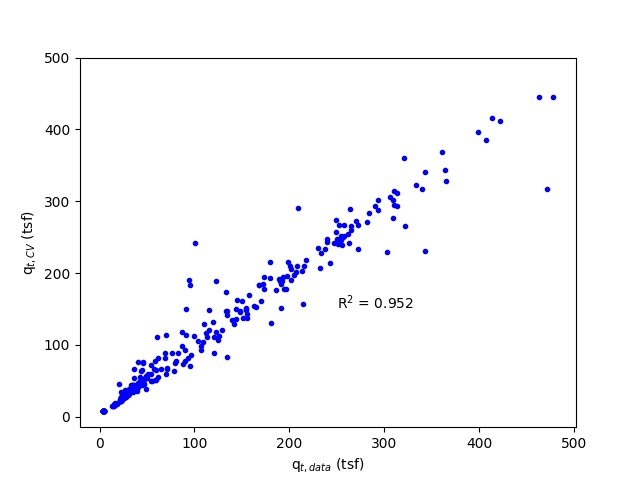
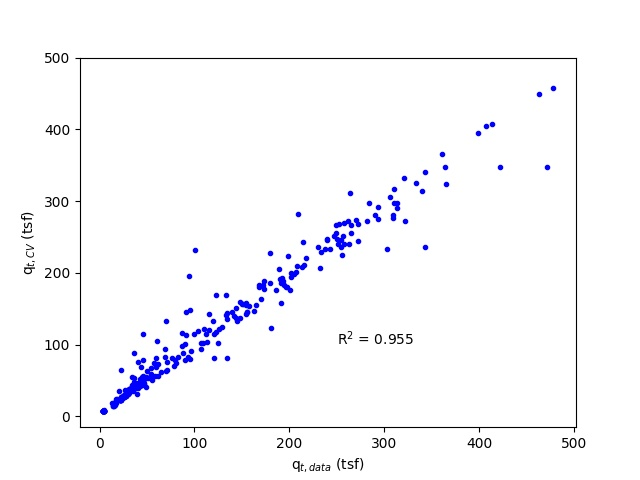
Nov 2023

diff --git a/_projects/1_project.md b/_projects/1_project.md
@@ -16,23 +16,29 @@ My motivation was simple: to make my life processing data, especially historical
 
 Extracting the data involves a number of imaging techniques, including thresholding, color filtering, and noise reduction, to trace the data line. 
 Once the desired data line is traced, it is then scaled to the input scales. Figure 1 below presents an example CPT tip stress plot. 
-The left figure is the original figure as included in reports, and the right is overlaid with the extracted features.
+The left figure is the original figure as included in reports with OTSU threshold applied, 
+and the center and right figures present extracted features with different processing methods, overlying the original plot. It becomes evident that various processing methods return distinct features, 
+which highly dictates the extraction accuracy. For example, data coverage in the right figure (method 2) is greater than the center figure (method 1). 
+However, it does a worse job in capturing abrupt features (i.e., spike in tip stress). 
 
 
 <div class="row justify-content-sm-center">
-    <div class="col-sm-4 mt-3 mt-md-0">
-        {% include figure.html path="assets/img/project/qt_ori.jpg" class="img-fluid rounded z-depth-1" %}
+    <div class="col-sm-3 mt-3 mt-md-0">
+        {% include figure.html path="assets/img/project/qt_thresh.jpg" class="img-fluid rounded z-depth-1" %}
     </div>
-	<div class="col-sm-4 mt-3 mt-md-0">
-        {% include figure.html path="assets/img/project/qt_traced.jpg" class="img-fluid rounded z-depth-1" %}
+	<div class="col-sm-3 mt-3 mt-md-0">
+        {% include figure.html path="assets/img/project/qt_traced_a.jpg" class="img-fluid rounded z-depth-1" %}
+    </div>
+	<div class="col-sm-3 mt-3 mt-md-0">
+        {% include figure.html path="assets/img/project/qt_traced_b.jpg" class="img-fluid rounded z-depth-1" %}
     </div>
 </div>
 <div class="caption">
-    Figure 1. (Left) Sample CPT plot, and (Right) Extracted features.
+    Figure 1. (Left) Image thresholding; and (Center and Right) Extracted features with method 1 and 2, respectively. Underlying gray line is the original data plot.
 </div>
 
 Plotting the actual data against the extracted data is a direct way to evaluate the linearity of two datasets. 
-Furthermore, Pearson correlation analysis yields a result of  *r* = .979, *p* = .000, indicating that both data are strongly correlated and statistically significant.
+Furthermore, Pearson correlation analysis yields a result of  *r* = .980, *p* = .000, indicating that both data are strongly correlated and statistically significant.
 Although this digitizing tool is not perfect, the output data, including tip stress (q<sub>t</sub>), sleeve friction (f<sub>s</sub>), and pore pressure (u), 
 are around 5% error or less for use in analysis or design. As of now, the program is limited to PDFs and software-generated images. 
 Further improvements in the development of distorted and scanned CPT plots, and better data capturing are under process.
@@ -45,5 +51,7 @@ Further improvements in the development of distorted and scanned CPT plots, and 
 <div class="caption">
     Figure 2. Comparison of actual data and extracted data using arithmetic scale.
 </div>
+
+Last update: 10/2023
 
 

diff --git a/_projects/2_project.md b/_projects/2_project.md
@@ -119,3 +119,5 @@ such as [itertools.combinations_with_replacement( )](https://docs.python.org/3/l
 
 Thumbnail photo credit: Makc76
 
+Last update: 10/2023
+
